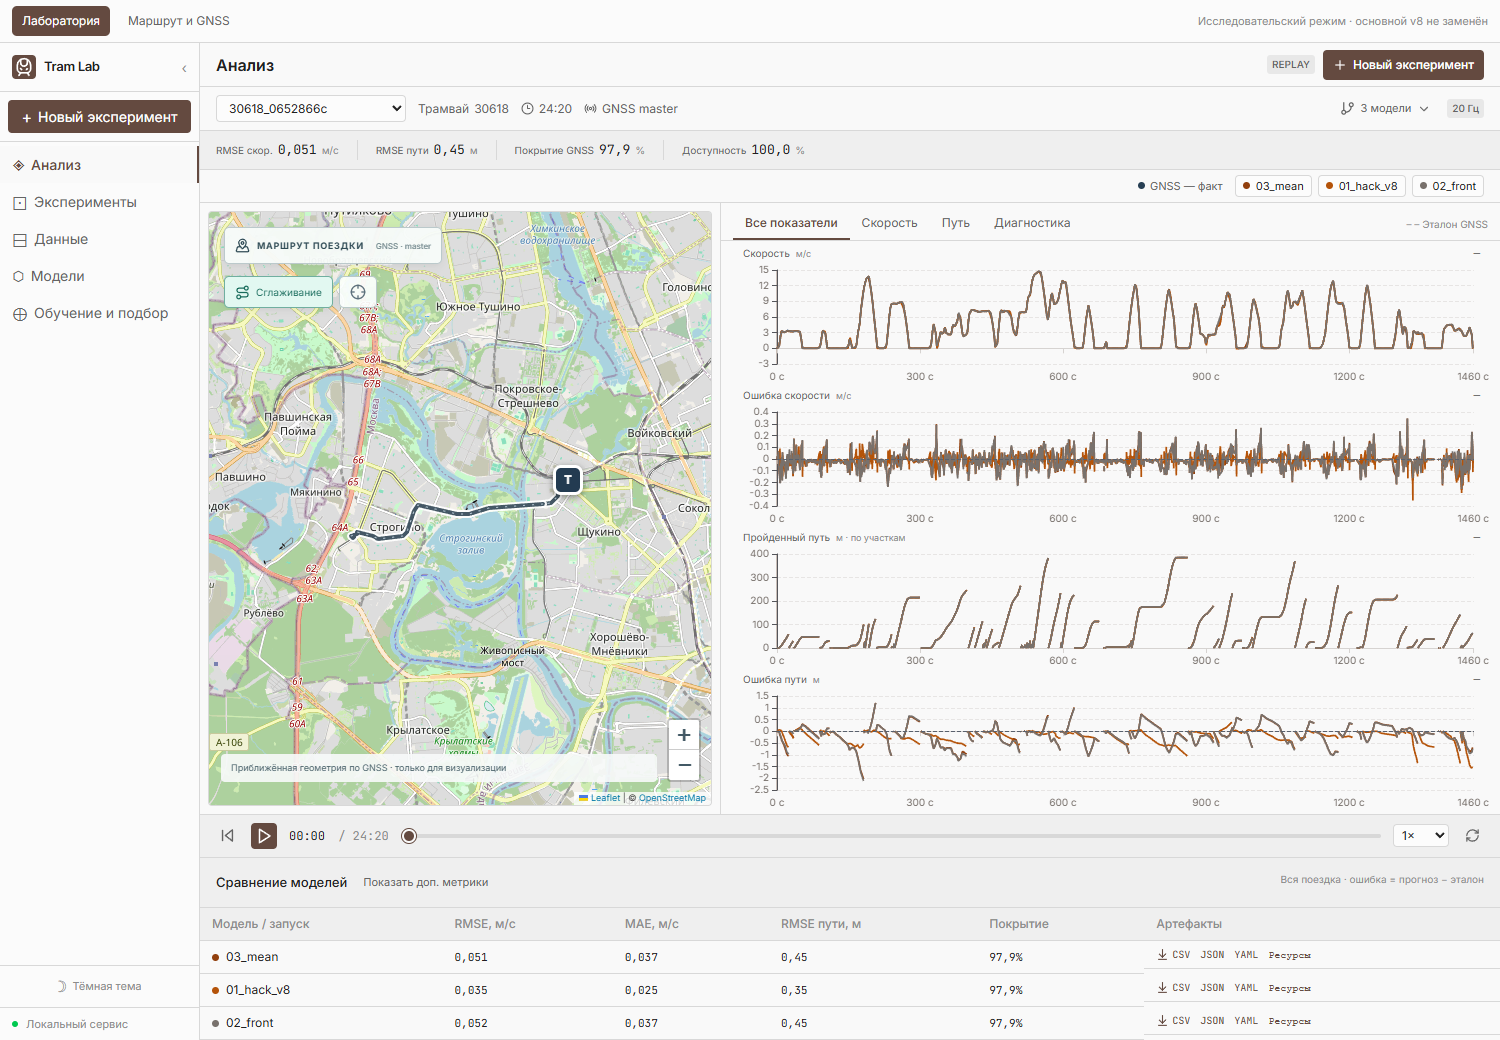
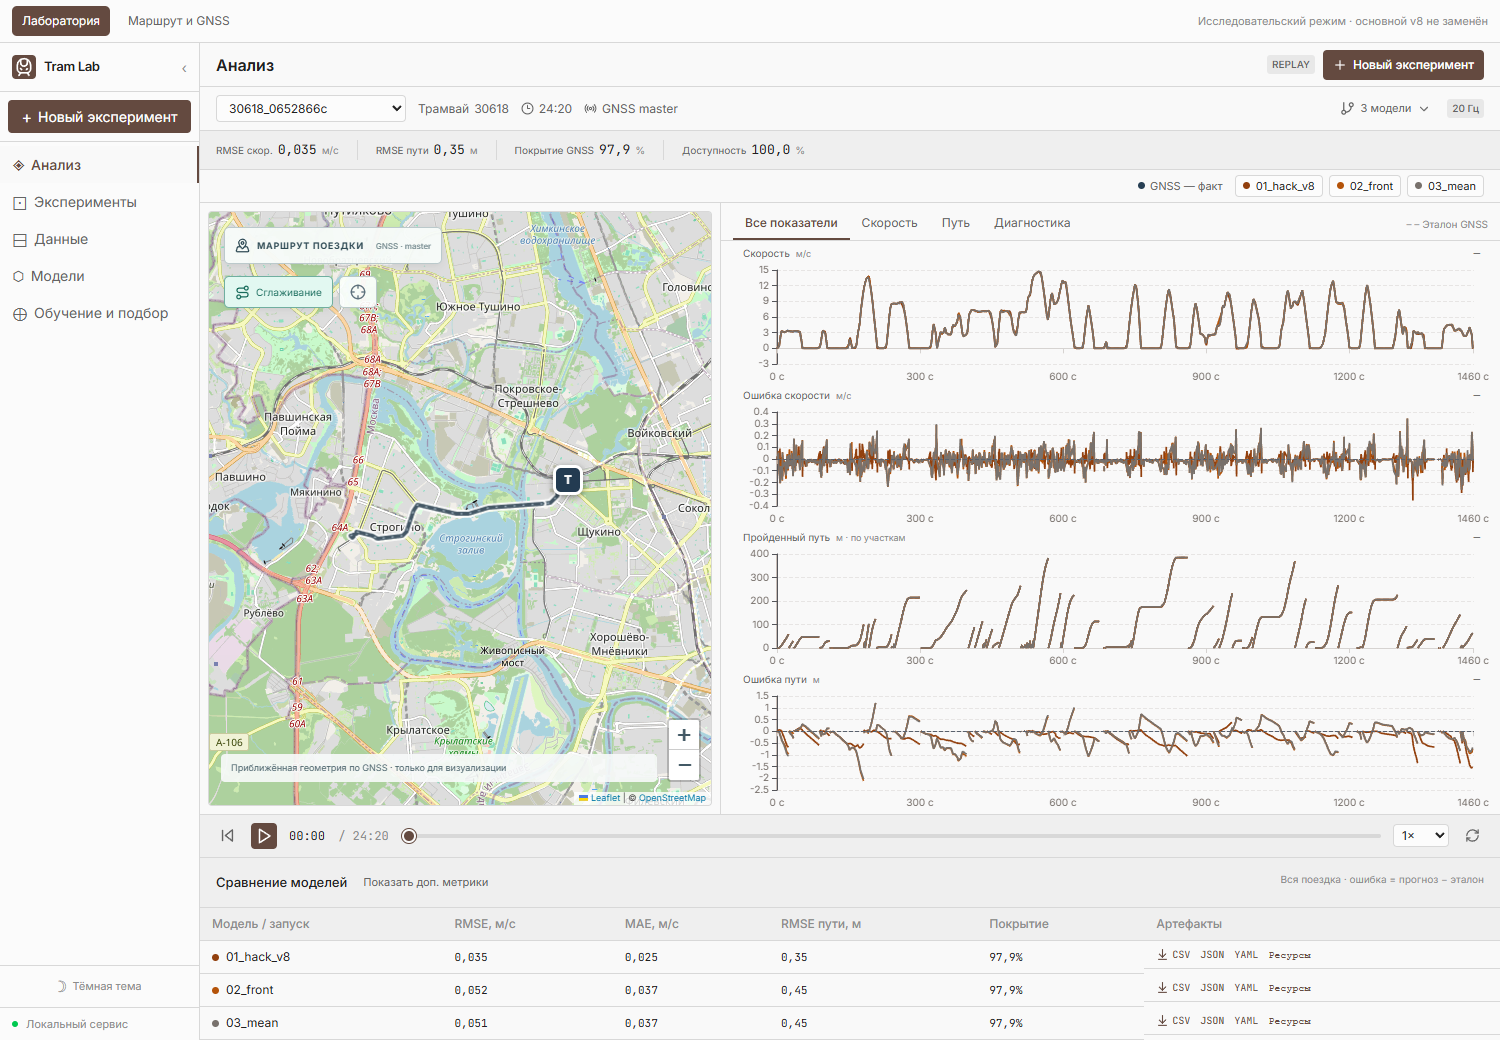
Clarify jury reproduction steps and verify the v8 demo screenshot [skip ci]

diff --git a/submission/JUDGE_GUIDE.md b/submission/JUDGE_GUIDE.md
@@ -6,6 +6,8 @@
 
 ![Интерфейс анализа: карта, графики и сравнение моделей](../reports/submission_20260927/web-demo.png)
 
+На скриншоте v8 выбран первым: верхние показатели относятся к нему. Это одна development-запись `30618_0652866c`; общие результаты validation приведены в отдельном отчёте.
+
 **[Запуск UI и короткий сценарий демонстрации](WEB_DEMO.md)** · **[Точность и задержка v8](VALIDATION_V8.md)**
 
 Для быстрого знакомства: открыть development-запись `30618_0652866c`, сравнить `hack_v8`, `front` и `mean`, затем создать отдельный эксперимент с пропуском колёсных измерений. Интерфейс работает с записями офлайн; ниже приведена проверка выходов ROS-ноды.
@@ -13,6 +15,16 @@
 ## 1. Среда и сборка
 
 Ubuntu 22.04, ROS 2 Humble, Python 3, `colcon`, пакеты `nav_msgs`, `diagnostic_msgs`, `std_srvs`, `launch_ros` и `ament_index_python`. Зависимости устанавливаются заранее; сборка проекта не скачивает данные или модели. Рецепт подготовки контейнера: [Dockerfile.environment](../Dockerfile.environment).
+
+Получить исходники и официальные записи (нужен интернет; загрузка данных выполняется один раз):
+
+```bash
+git clone https://github.com/jabrailkhalil/hack.git
+cd hack
+python3 tools/get_dataset.py
+```
+
+Если репозиторий уже скачан, выполнить только последнюю команду из его корня. Скрипт проверяет SHA256 архива и распаковывает rosbag в `dataset/data`. Для короткой демонстрации ниже используется development-запись `30618_0652866c`.
 
 Из корня репозитория:
 
@@ -43,11 +55,11 @@ bash submission/run.sh --clock 2>&1 | tee /tmp/reserve-odometry.log
 ```bash
 source /opt/ros/humble/setup.bash
 source install_main/setup.bash
-ros2 bag info /absolute/path/to/bag
-ros2 bag play /absolute/path/to/bag --clock 100 --topics   /vehicle/driver_position_cmd   /vehicle/front_bogie_velocity   /vehicle/rear_bogie_velocity
+ros2 bag info dataset/data/30618_0652866c
+ros2 bag play dataset/data/30618_0652866c --clock 100 --topics   /vehicle/driver_position_cmd   /vehicle/front_bogie_velocity   /vehicle/rear_bogie_velocity
 ```
 
-Указать каталог rosbag с `metadata.yaml` и файлом `.db3`. Режим `ros_clock` позволяет продолжать прогноз при исчезновении всех трёх входов, пока поступает `/clock`. Пауза воспроизведения останавливает модельное время; перемотка назад начинает новый относительный сегмент. Перед каждой независимой записью перезапустить ноду.
+Для другой поездки заменить путь на её каталог rosbag с `metadata.yaml` и файлом `.db3`. Режим `ros_clock` позволяет продолжать прогноз при исчезновении всех трёх входов, пока поступает `/clock`. Пауза воспроизведения останавливает модельное время; перемотка назад начинает новый относительный сегмент. Перед каждой независимой записью перезапустить ноду.
 
 Для обычного потока без `/clock` используется `bash submission/run.sh`: время продвигается по меткам входных сообщений (`input_stamp`). При полном исчезновении входов этот режим не продвигает расчёт.
 

diff --git a/submission/VALIDATION_V8.md b/submission/VALIDATION_V8.md
@@ -25,6 +25,8 @@
 
 Исходные данные отчёта: [decision.json](../reports/adjudication/decision.json), [ошибка по каждой записи и приёмнику](../reports/adjudication/clean_per_bag.csv), [ошибки по типам отказов](../reports/adjudication/fault_by_type.csv), [полный протокол сравнения](../reports/adjudication/REPORT.md).
 
+Отчёт выбора модели и `decision.json` сохранены на дату сравнения: их поля статуса CI отражают тот запуск. Свежие подтверждённые ROS-проверки и замеры текущей упаковки приведены ниже.
+
 ## Быстродействие
 
 27 сентября 2026 выполнены два 60-секундных прогона установленного v8 на начале development-записи `30618_0652866c` при скорости воспроизведения 1×. ROS 2 Humble запущен в контейнере без сети с ограничением 2 CPU / 500000000 байт. Контрольная сумма установленного профиля проверена.

diff --git a/README.md b/README.md
@@ -10,6 +10,8 @@ ROS 2 Humble-пакет для оценки скорости и пройденн
 
 ![Tram Odometry Lab: карта, графики и сравнение трёх моделей](reports/submission_20260927/web-demo.png)
 
+На скриншоте v8 выбран первым: верхние показатели относятся к нему. Это одна development-запись `30618_0652866c`; общие результаты validation приведены в отдельном отчёте.
+
 **[Открыть обзор UI и инструкцию запуска](submission/WEB_DEMO.md)** · **[Проверить ROS-пакеты](submission/JUDGE_GUIDE.md)** · **[Посмотреть измеренные результаты](submission/VALIDATION_V8.md)**
 
 Скриншот показывает обработанную development-запись. Интерактивный стенд запускается локально через Docker или Python; карта использует GNSS записи для визуализации.

diff --git a/submission/WEB_DEMO.md b/submission/WEB_DEMO.md
@@ -4,6 +4,8 @@
 
 ![Tram Odometry Lab: анализ поездки и сравнение моделей](../reports/submission_20260927/web-demo.png)
 
+На скриншоте v8 выбран первым: верхние показатели относятся к нему. Это одна development-запись `30618_0652866c`; общие результаты validation приведены в отдельном отчёте.
+
 **Сценарий на три минуты:** выбрать поездку → сравнить v8 с базовыми оценками → добавить пропуск датчика → посмотреть восстановление и сохранить результаты.
 
 Интерактивный стенд запускается локально по инструкции ниже. Скриншот доступен сразу, без установки.
